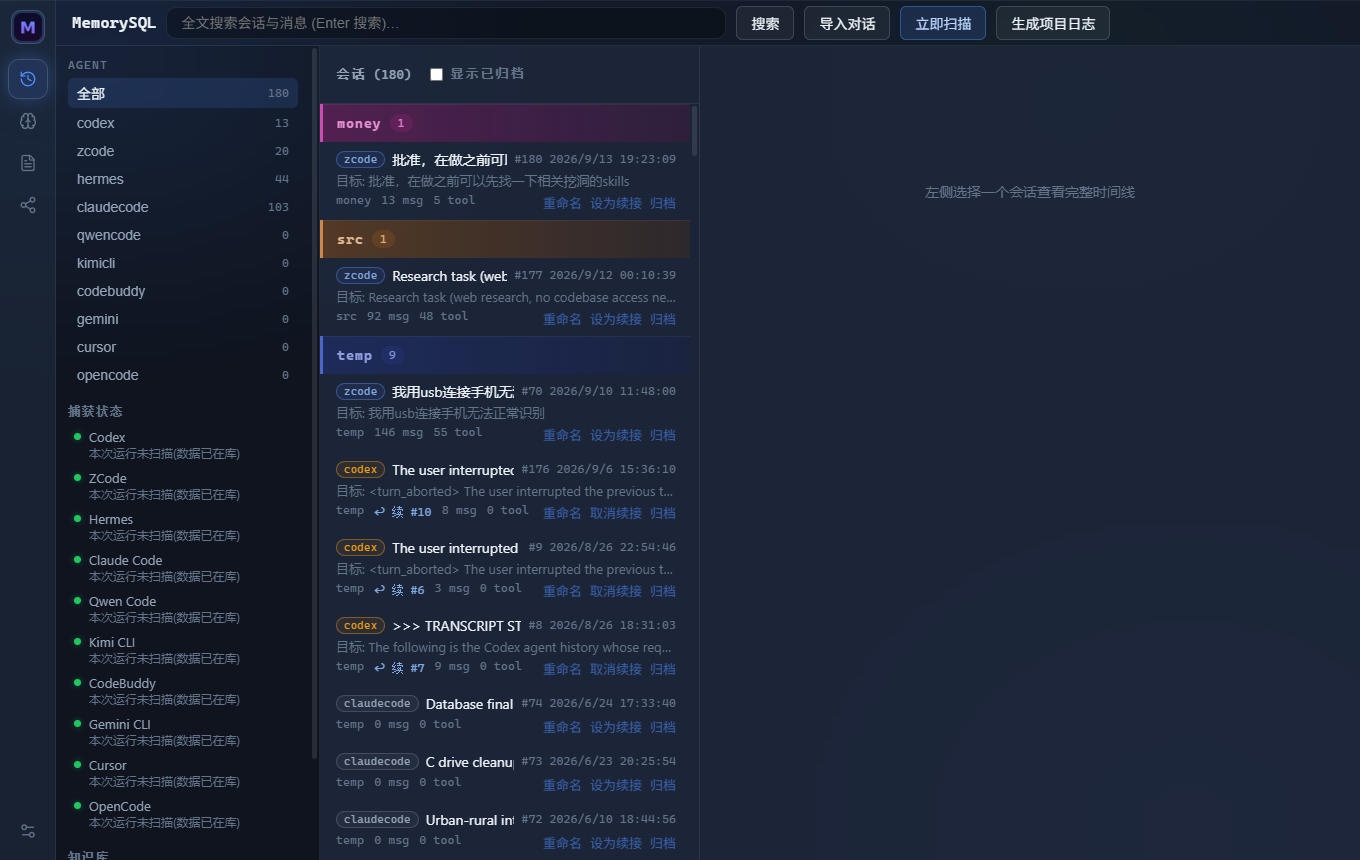
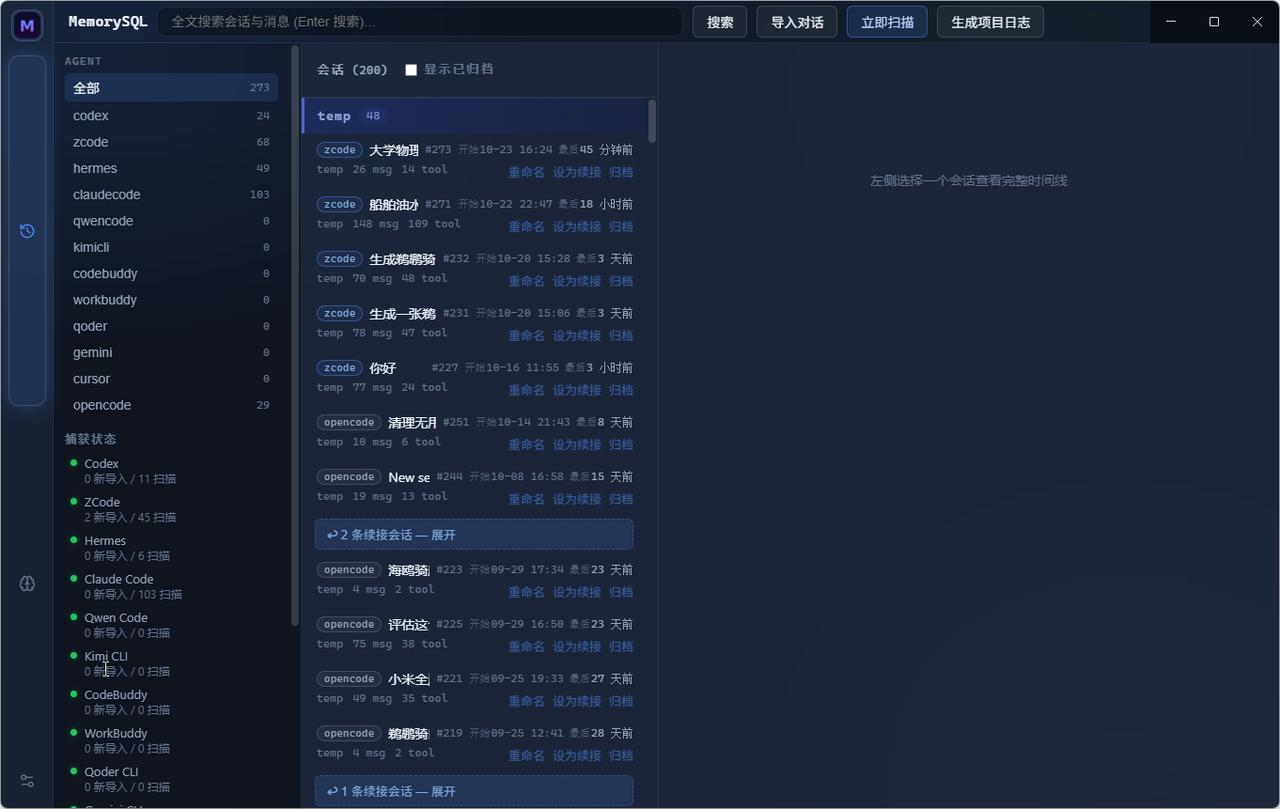
chore(release): v0.6.0 — 笔记/图谱下线 + 最后一次对话时间 + 拖拽自动滚动
功能:
- 侧栏两个 tag 去掉小字标签(只留图标,各占导航列一半)
- 会话列表新增「最后一次对话时间」(迁移 v7),区分久未续聊的会话
- 拖拽会话到列表边缘时自动滚动(HTML5 拖放期间滚轮失效的解法)

版本:0.5.7 → 0.6.0(package.json + package-lock 同步)

README:
- 特性列表删掉「笔记 + 图谱」,加「最后一次对话时间」
- 加 v0.6.0 变更说明(含「升级不丢数据」:旧笔记文件与 notes 表都保留)
- 数据描述从「SQLite + Markdown」改为「SQLite」;技术栈去掉 CodeMirror
- 02-sessions.png / 03-session-detail.png 重新截图(旧图还带四个导航图标)
- 新增会话详情截图段

DEVLOG:补 v0.6.0 发版条 + 拖拽自动滚动条

验证:typecheck 0 / vitest 402:402(38 文件)

diff --git a/src/renderer/src/styles.css b/src/renderer/src/styles.css
@@ -66,18 +66,10 @@ body {
   color: var(--msql-fg-dim); background: transparent;
   transition: color var(--msql-t-medium) var(--msql-ease), background var(--msql-t-medium) var(--msql-ease), box-shadow var(--msql-t-medium) var(--msql-ease), transform 160ms ease-out;
 }
-/* 只剩「会话 / 记忆」两个入口:两个 tag 各占导航列的一半,
-   图标与文字在各自半区里居中 */
+/* 只剩「会话 / 记忆」两个入口:两个 tag 各占导航列的一半,图标在各自半区居中 */
 .rail-btn-fill {
-  flex: 1 1 0; min-height: 0; align-content: center;
-  grid-template-rows: 1fr auto; gap: 4px; padding: 0;
+  flex: 1 1 0; min-height: 0; align-content: center; padding: 0;
 }
-.rail-btn-label {
-  font-size: 11px; line-height: 1.2; letter-spacing: .02em;
-  color: var(--msql-fg-muted); transition: color var(--msql-t-med) var(--msql-ease);
-}
-.rail-btn-fill:hover .rail-btn-label { color: var(--msql-fg); }
-.rail-btn-fill.active .rail-btn-label { color: var(--msql-accent); }
 .rail-btn:hover { color: var(--msql-fg); background: rgba(255, 255, 255, 0.06); }
 .rail-btn.active {
   color: var(--msql-accent); background: var(--msql-accent-soft);

diff --git a/src/renderer/src/App.tsx b/src/renderer/src/App.tsx
@@ -551,7 +551,6 @@ export default function App() {
                 onClick={() => setView(v)}
               >
                 <Icon size={18} strokeWidth={1.8} />
-                <span className="rail-btn-label">{VIEW_LABEL[v]}</span>
               </button>
             )
           })}

diff --git a/docs/DEVLOG.md b/docs/DEVLOG.md
@@ -4,7 +4,49 @@
 
 ---
 
-## 2026-10-22 · 笔记/图谱下线的代码审查整改:13 条发现,其中 3 条是真缺陷
+## 2026-10-23 · v0.6.0 发版:笔记/图谱下线 + 最后一次对话时间 + 拖拽自动滚动
+
+**本版主题:产品收缩。** 用户长期使用后判断「笔记」与「知识图谱」实用性不高,要求下线并顺带减体积;同时提出会话列表需要「最后一次对话时间」来分辨久未续聊的会话,以及拖动会话时列表无法滚动的不便。
+
+**一、下线笔记与知识图谱**
+- 删掉 `core-vault` 插件、`NotesView`(CodeMirror 6)、`GraphView`(cytoscape),连带移除 4 个依赖
+- **renderer 产物 2,789,563 → 677,529 字节(-75.7%)**;安装包只小 0.39 MiB(NSIS 的 LZMA 把 2.1MB JS 压成约 0.4MB)——**删功能不是瘦身主力**,省下的是被 Vite 打进 bundle 的两个 UI 库
+- 检索域收缩为会话/消息/记忆三类;导航只剩「会话 / 记忆」,快捷键 `Ctrl+1..3`
+- `vault/` 语义变为**纯生成文件目录**(devlog/ + dispatch/);生成项目日志后顶栏给「打开日志目录」按钮
+- **旧数据不删**:`notes`/`notes_fts` 表留在库里,只是不再读写
+
+**二、最后一次对话时间(`sessions.last_message_at`,迁移 v7)**
+- 取最新消息 ts,无则回落 `ended_at`,都没有留 NULL(**不写 0**,0 会被当成 1970)
+- 迁移从 `MAX(session_messages.ts)` 回填;`ts=0` 用 `NULLIF` 视为无时间戳
+- ingest 与 sync-folder 同步合并时维护(bundle 格式不变,避免跨版本字段漂移)
+- 会话行显示「开始 MM-DD HH:mm + 最后 刚刚/N 天前」;详情页与 MCP(`memory_list_sessions` / `memory_get_session`)同步带出
+
+**三、拖拽自动滚动**(用户反馈:拖动会话时列表无法滚动)
+- 根因是 HTML5 拖放期间浏览器独占指针,wheel 事件被吞——不是 bug,只能由代码滚容器
+- 指针靠近列表上/下边缘 64px 内自动滚动,速度随深入边缘渐起(最大 16px/帧),滚动时重新读指针所在行让 drop indicator 跟随
+- 纯算法抽到 `src/renderer/src/drag-autoscroll.ts` + 9 个单测;真浏览器端到端验证:拖到底部边缘持住,列表从 #1 滚到 #26(**scrollTop 0 → 390**)
+
+**四、代码审查整改(13 条发现,3 条真缺陷)** —— 详见下方同日条目,本版一并带上。
+
+**验证:** typecheck 0 / vitest **402:402**(38 文件)/ 真实库副本 282 会话回填 0 NULL 0 个 0 值 / `import:scan` 12 插件无回归 / 真机 GUI 验收(导航两栏各占一半、标签已按用户要求去掉、会话行两个时间、详情页「开始/最后」)/ CI 双矩阵全绿。
+
+**README 同步**:特性列表删掉「笔记 + 图谱」、加「最后一次对话时间」、加 v0.6.0 变更说明(含「升级不丢数据」);`02-sessions.png` 与 `03-session-detail.png` 重新截图(旧图还带着四个导航图标和单个时间戳)。
+
+---
+
+## 2026-10-23 · 拖拽会话时列表无法滚动 → 边缘自动滚动
+
+**根因:** HTML5 拖放期间浏览器独占指针,`wheel` 事件被完全吞掉。这不是 bug 而是规范行为,所以拖动时唯一能到达折叠区以下会话的办法是**由代码滚容器**。
+
+**做法:** 指针进入列表上/下边缘 64px 内即开始滚动,速度随深入边缘带渐起(轻碰慢滚、压边快滚),上限 16px/帧(指针飞出窗口也不会失控)。滚动时重新读指针所在的行,drop indicator 跟着拖动走而不是冻在原地。
+
+**验证:** 算法抽到 `src/renderer/src/drag-autoscroll.ts`,9 个单测覆盖中部不动/渐起/钳制/双向/边界取值。DOM 侧在真浏览器里端到端跑过:抓起一行拖到底部边缘持住,列表从「会话 #1」滚到「会话 #26」(`scrollTop` 0 → 390),indicator 一路跟随。
+
+**两个验证环境的坑(不影响应用):** ①该浏览器后端 `requestAnimationFrame` 完全不触发(实测 400ms 内 0 帧),验证页改用 `setTimeout` 驱动;②vite 会缓存 HTML 代理模块,改了页面不生效,需清 `node_modules/.vite` 并重启。
+
+---
+
+## 2026-10-23 · 代码审查整改:13 条发现,其中 3 条是真缺陷
 
 **背景:** 同日「下线笔记与图谱 + 新增最后一次对话时间」的改动(`20bb9bd`/`40fb619`)交给四个只读审查员(数据层与迁移 / MCP 与检索 / 前端展示 / 删除面与残留引用)+ 逐条独立复核。共提出 13 条发现,**独立复核后全部成立**,其中 3 条是会真出错的缺陷:
 

diff --git a/README.md b/README.md
@@ -29,7 +29,7 @@
 
 **MemorySQL 解决这件事**:自动捕获所有 agent 的会话、维护你的记忆画像与项目状态,并在本机起一个 MCP 服务端。任何 agent 连上后一次 `memory_get_context` 调用,即可拿到完整上下文继续干活——连上一个 agent 干到哪、下一步是什么,都内联在返回里。
 
-> **数据 100% 存本机**(SQLite + Markdown,除 LLM API 外零服务器依赖);任何导出/分享路径强制过脱敏模块;语义检索用本地 ONNX 模型,全程离线。
+> **数据 100% 存本机**(SQLite,除 LLM API 外零服务器依赖);任何导出/分享路径强制过脱敏模块;语义检索用本地 ONNX 模型,全程离线。
 >
 > ⚠ 本机会以**明文**保存全部对话与记忆,并开一个**无鉴权**的本地 MCP 端点(仅绑 `127.0.0.1`)供 agent 读取。
 > 完整的数据流向、信任假设与关闭方式见 **[隐私与安全说明](PRIVACY.md)**。
@@ -42,11 +42,16 @@
 
 ![会话库](design/screenshots/02-sessions.png)
 
-*10 家 agent 的会话自动捕获入库,全文本地可搜*
+*10 家 agent 的会话自动捕获入库,全文本地可搜。每条会话并排显示「开始」与「最后」——一眼分出「上周开始、今早还在聊」和「上周就结束了」*
+
+![会话详情](design/screenshots/03-session-detail.png)
+
+*完整消息时间线,可按需回读更早的消息;「开始 / 最后」在头部并列*
 
 ## ✨ 特性
 
 - **会话自动捕获** —— 10 家 agent 开箱支持(Codex / ZCode / Claude Code / Hermes / Gemini / Cursor / OpenCode / Qwen Code / Kimi CLI / CodeBuddy Code),增量监听零手动操作
+- **最后一次对话时间** —— 每条会话并排显示「开始」与「最后」,一眼分出「上周开始、今早还在聊」和「上周就结束了」
 - **MCP 续接包** —— 画像 + 长期记忆 + 项目状态 + 最近会话 + **上一棒交接摘要**,一次调用恢复全部上下文
 - **交接简报** —— `memory_get_project_brief` 自动汇编项目当前进展/决策/待办,换 agent 接手零成本
 - **语义检索** —— sqlite-vec + 本地 embedding(bge-small-zh),字面搜不到的概念性提问也能召回
@@ -54,6 +59,8 @@
 - **自动项目日志** —— `vault/devlog/` 按项目生成开发日志(时间线 + 决策 + 待办)
 - **托盘常驻 + 全局秒搜** —— 关窗即驻留(MCP 保持在线),任意界面 `Alt+Shift+M` 唤起秒搜
 - **记忆治理** —— 收工汇报候选确认、LLM 冲突检测、手动改名/归档/续接链管理
+
+> **v0.6.0 变更**:下线了「笔记」与「知识图谱」两个功能(长期使用后判断实用性不高),界面收敛为「会话 / 记忆」两栏。连带移除 CodeMirror 与 cytoscape,renderer 产物从 2.79 MB 降到 0.68 MB。升级不会丢数据——旧笔记文件与 `notes` 表都保留在磁盘上,只是不再被读写。
 
 ## 📦 安装
 
